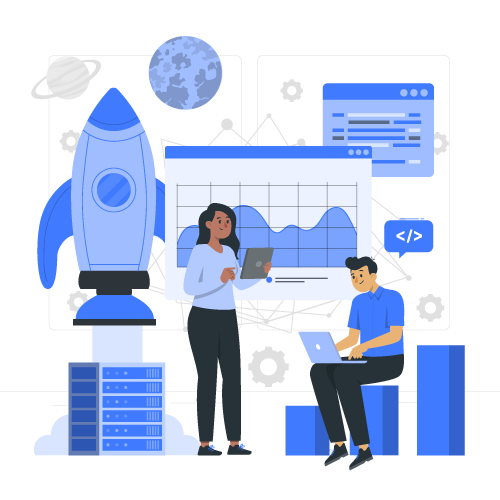
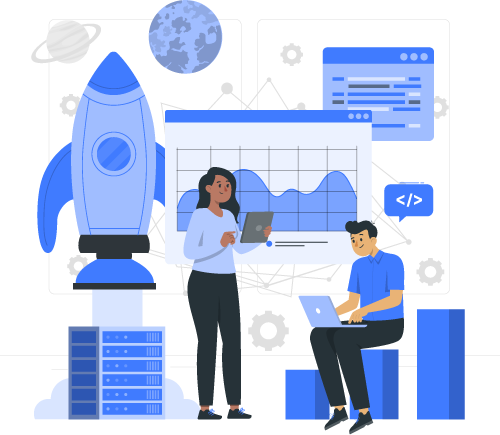
mejoras

diff --git a/src/components/CustomAnimatedText.jsx b/src/components/CustomAnimatedText.jsx
@@ -2,14 +2,13 @@ import React, { useState, useEffect } from 'react';
 
 // Colores disponibles para las palabras
 const colors = [
-    'text-red-500',
-    'text-blue-500',
-    'text-green-500',
-    'text-yellow-500',
-    'text-purple-500',
-    'text-indigo-500',
-    'text-pink-500',
-    'text-gray-500',
+    'bg-clip-text text-transparent bg-gradient-to-r from-gray-400 via-gray-200 to-gray-400',
+    'bg-clip-text text-transparent bg-gradient-to-r from-fuchsia-400 via-fuchsia-200 to-fuchsia-400',
+    'bg-clip-text text-transparent bg-gradient-to-r from-yellow-400 via-yellow-200 to-yellow-400',
+    'bg-clip-text text-transparent bg-gradient-to-r from-green-400 via-green-200 to-green-400',
+    'bg-clip-text text-transparent bg-gradient-to-r from-blue-400 via-blue-200 to-blue-400', 
+    'bg-clip-text text-transparent bg-gradient-to-r from-purple-400 via-purple-200 to-purple-400',
+    'bg-clip-text text-transparent bg-gradient-to-r from-pink-400 via-pink-200 to-pink-400',
 ];
 
 export const CustomAnimatedText = ({ plainText = '', words = [], className = '' }) => {
@@ -24,15 +23,15 @@ export const CustomAnimatedText = ({ plainText = '', words = [], className = '' 
     }, [words.length]);
 
     return (
-        <div className={`relative ${className}`}>
+        <div className={`${className}`}>
             {/* Texto principal */}
-            <span className="mr-3">{plainText}</span>
+            <span>{plainText}</span>
 
             {/* Palabras con colores distintos */}
             {words.map((word, index) => (
                 <span
                     key={index}
-                    className={`absolute transition-opacity duration-500 ${index === currentWordIndex ? 'opacity-100' : 'opacity-0'
+                    className={`py-2 animate-pulse transition-opacity duration-500 ${index === currentWordIndex ? 'block' : 'hidden'
                         } ${colors[index % colors.length]}`} // Asigna un color único basado en el índice
                 >
                     {word}

diff --git a/src/modulos/customer/AboutUsPage.jsx b/src/modulos/customer/AboutUsPage.jsx
@@ -17,14 +17,14 @@ export const AboutUsPage = () => {
           <CustomAnimatedText 
           plainText="Phentta es"
           words={words}
-          className="text-4xl font-bold mb-4 text-color-primary"
+          className="text-3xl lg:text-6xl font-bold mb-4 text-color-primary"
           />
           </div>
             <img className="sm:w-2/4" src="/assets/images/aboutus/presentation.png"></img>
           </div>
         </div>
         {/* Sección Acerca de */}
-        <div>
+        <div>          
           <h1>Acerca de Phentta</h1>
           <hr />
           <p>
@@ -33,14 +33,14 @@ export const AboutUsPage = () => {
         </div>
         {/* Sección Visión/Misión */}
         <div>
-          <div className="sm:flex items-center">
+          <div className="sm:flex items-center my-4">
             <div className="sm:w-3/4 md:mx-10 order-2">
               <h1>Visión</h1>
               <p>Nos esforzamos por convertirnos en la empresa líder en tecnología a nivel mundial, abarcando diversos sectores y siendo reconocidos por nuestra innovación, calidad y compromiso con la excelencia. Estamos comprometidos a comenzar este camino con nuestro enfoque actual y expandirnos hacia nuevas fronteras en el futuro</p>
             </div>
             <img src="/assets/images/aboutus/vision.png" className="w-full order-1 sm:w-1/4"></img>
           </div>
-          <div className="sm:flex items-center">
+          <div className="sm:flex items-center my-4">
             <div className="sm:w-2/3 md:mx-10">
               <h1>Misión</h1>
               <p>En Phentta, nos dedicamos a proporcionar soluciones tecnológicas innovadoras y de alta calidad para impulsar el éxito de nuestros clientes. Nos esforzamos por ofrecer servicios personalizados y orientados a resultados, brindando atención excepcional a cada cliente y adaptándonos constantemente a las necesidades del mercado en evolución.</p>
